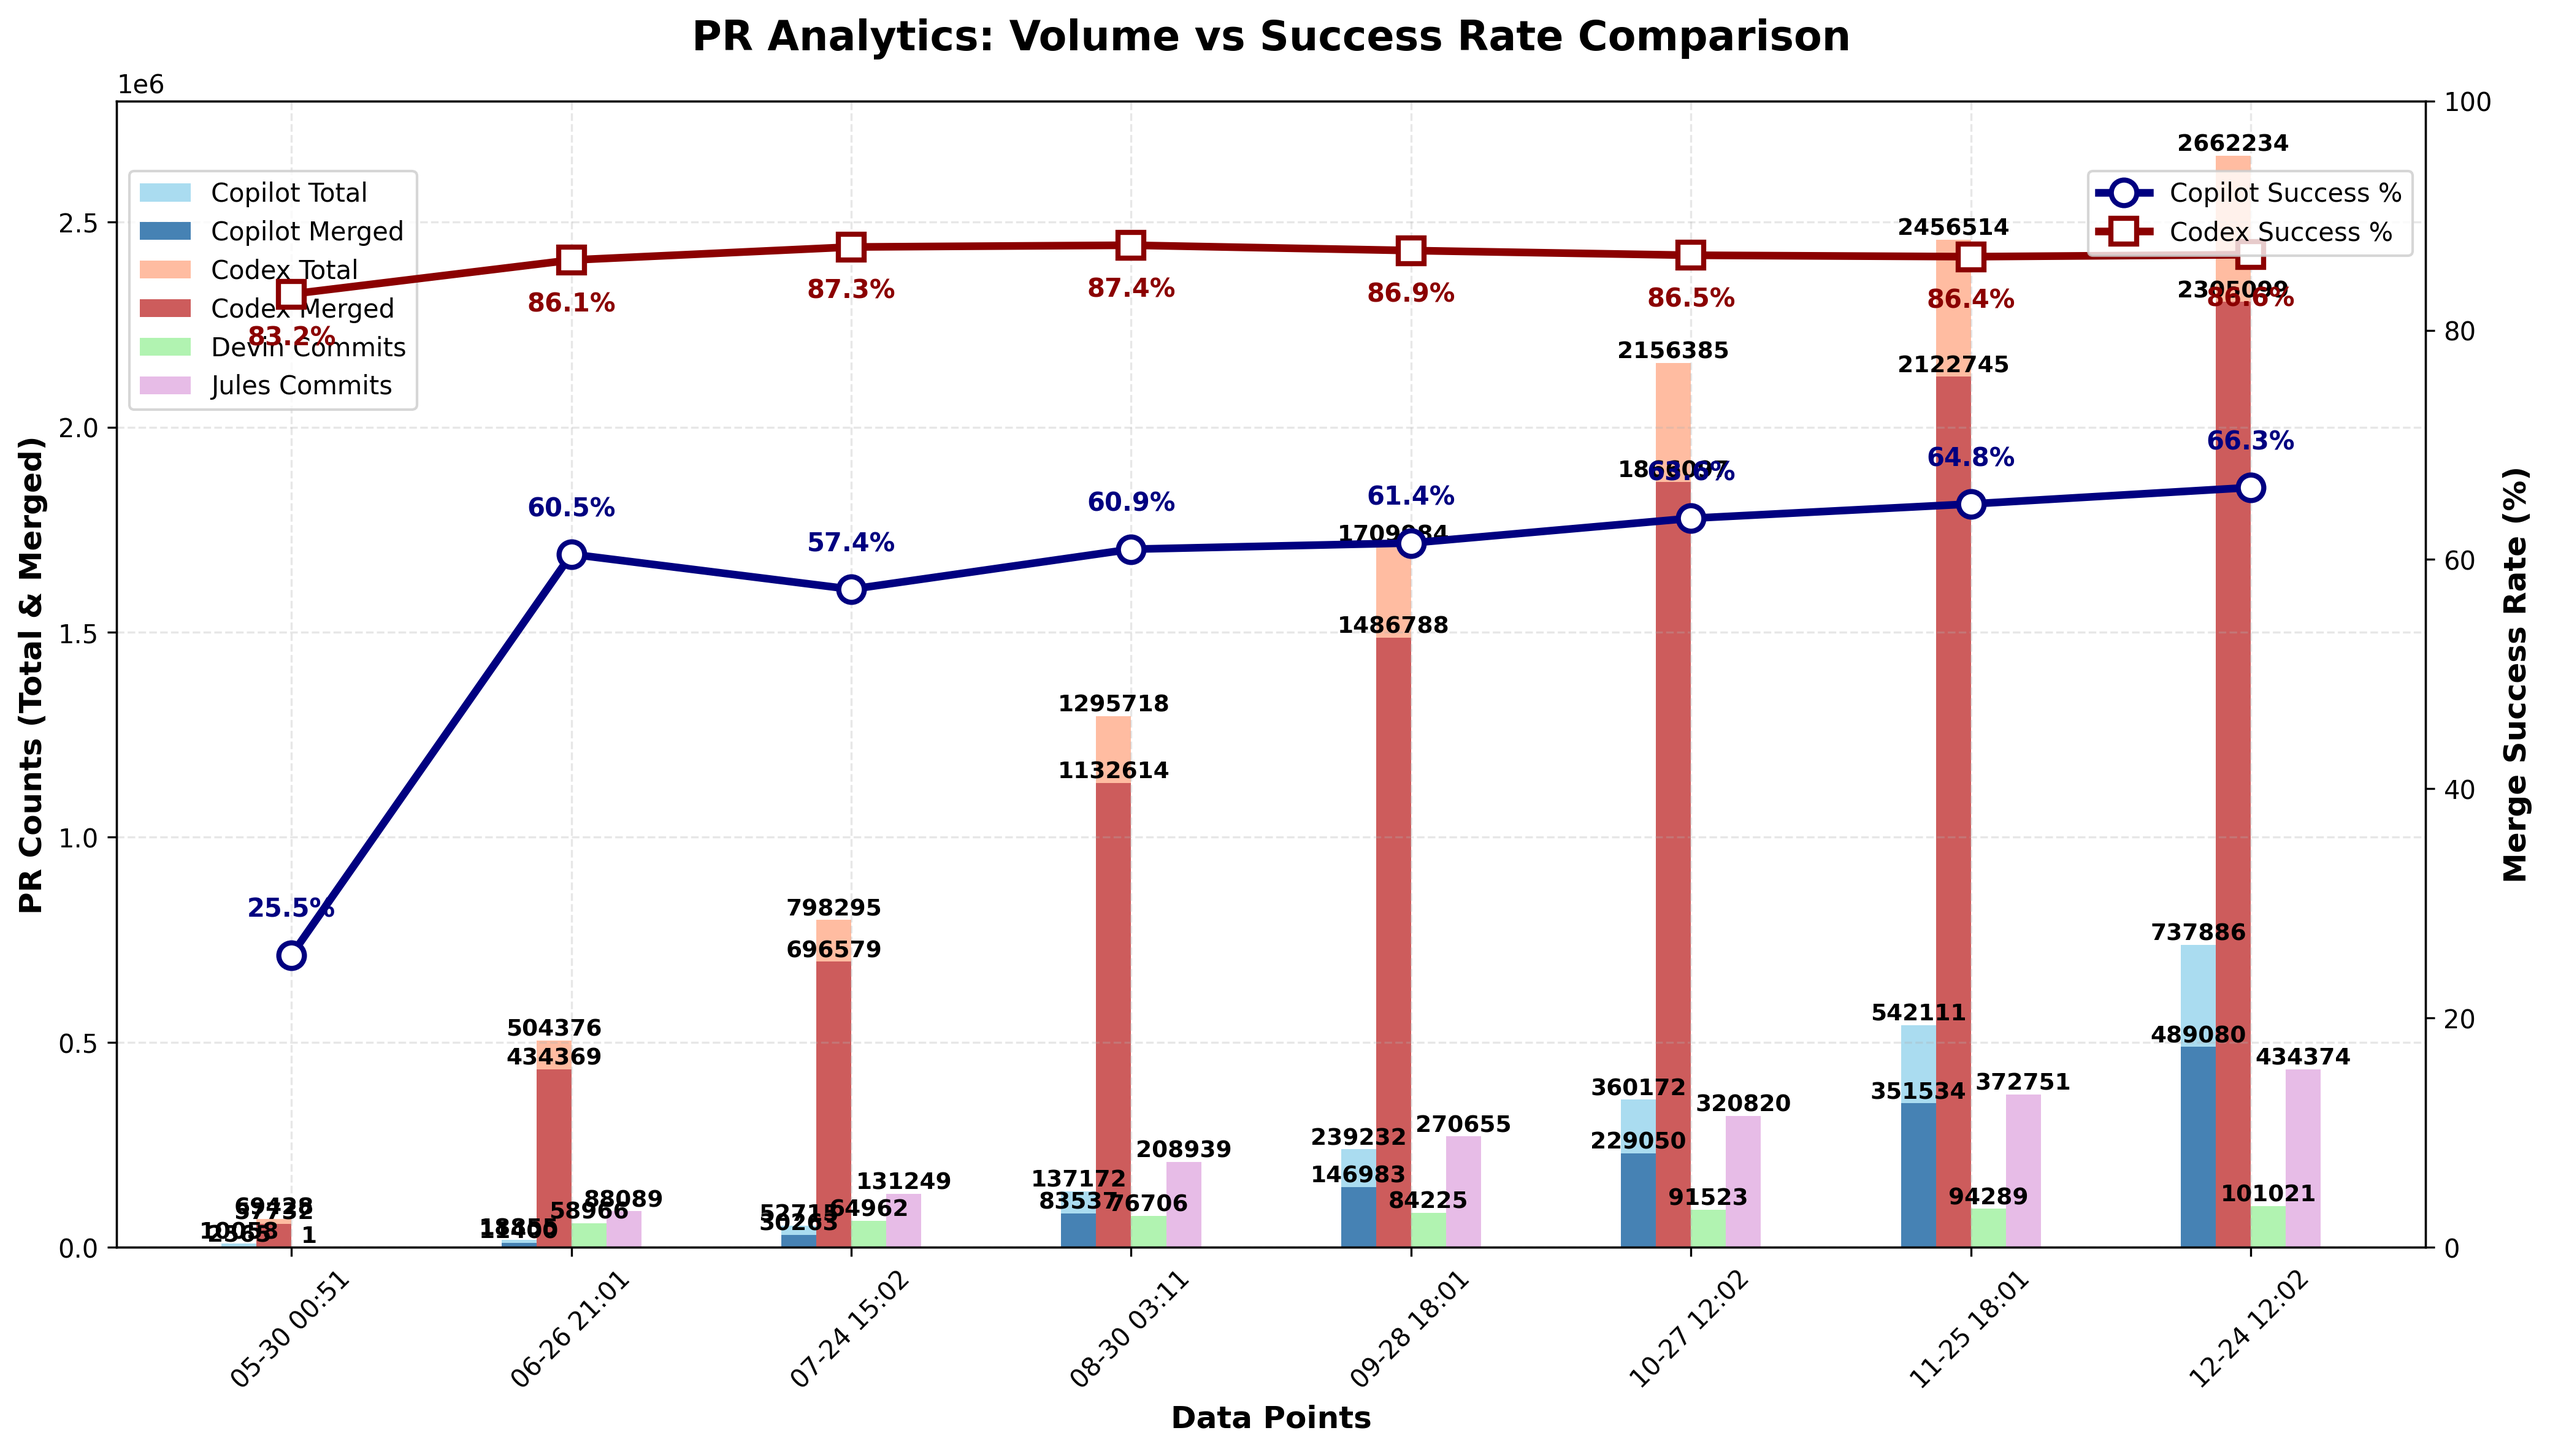
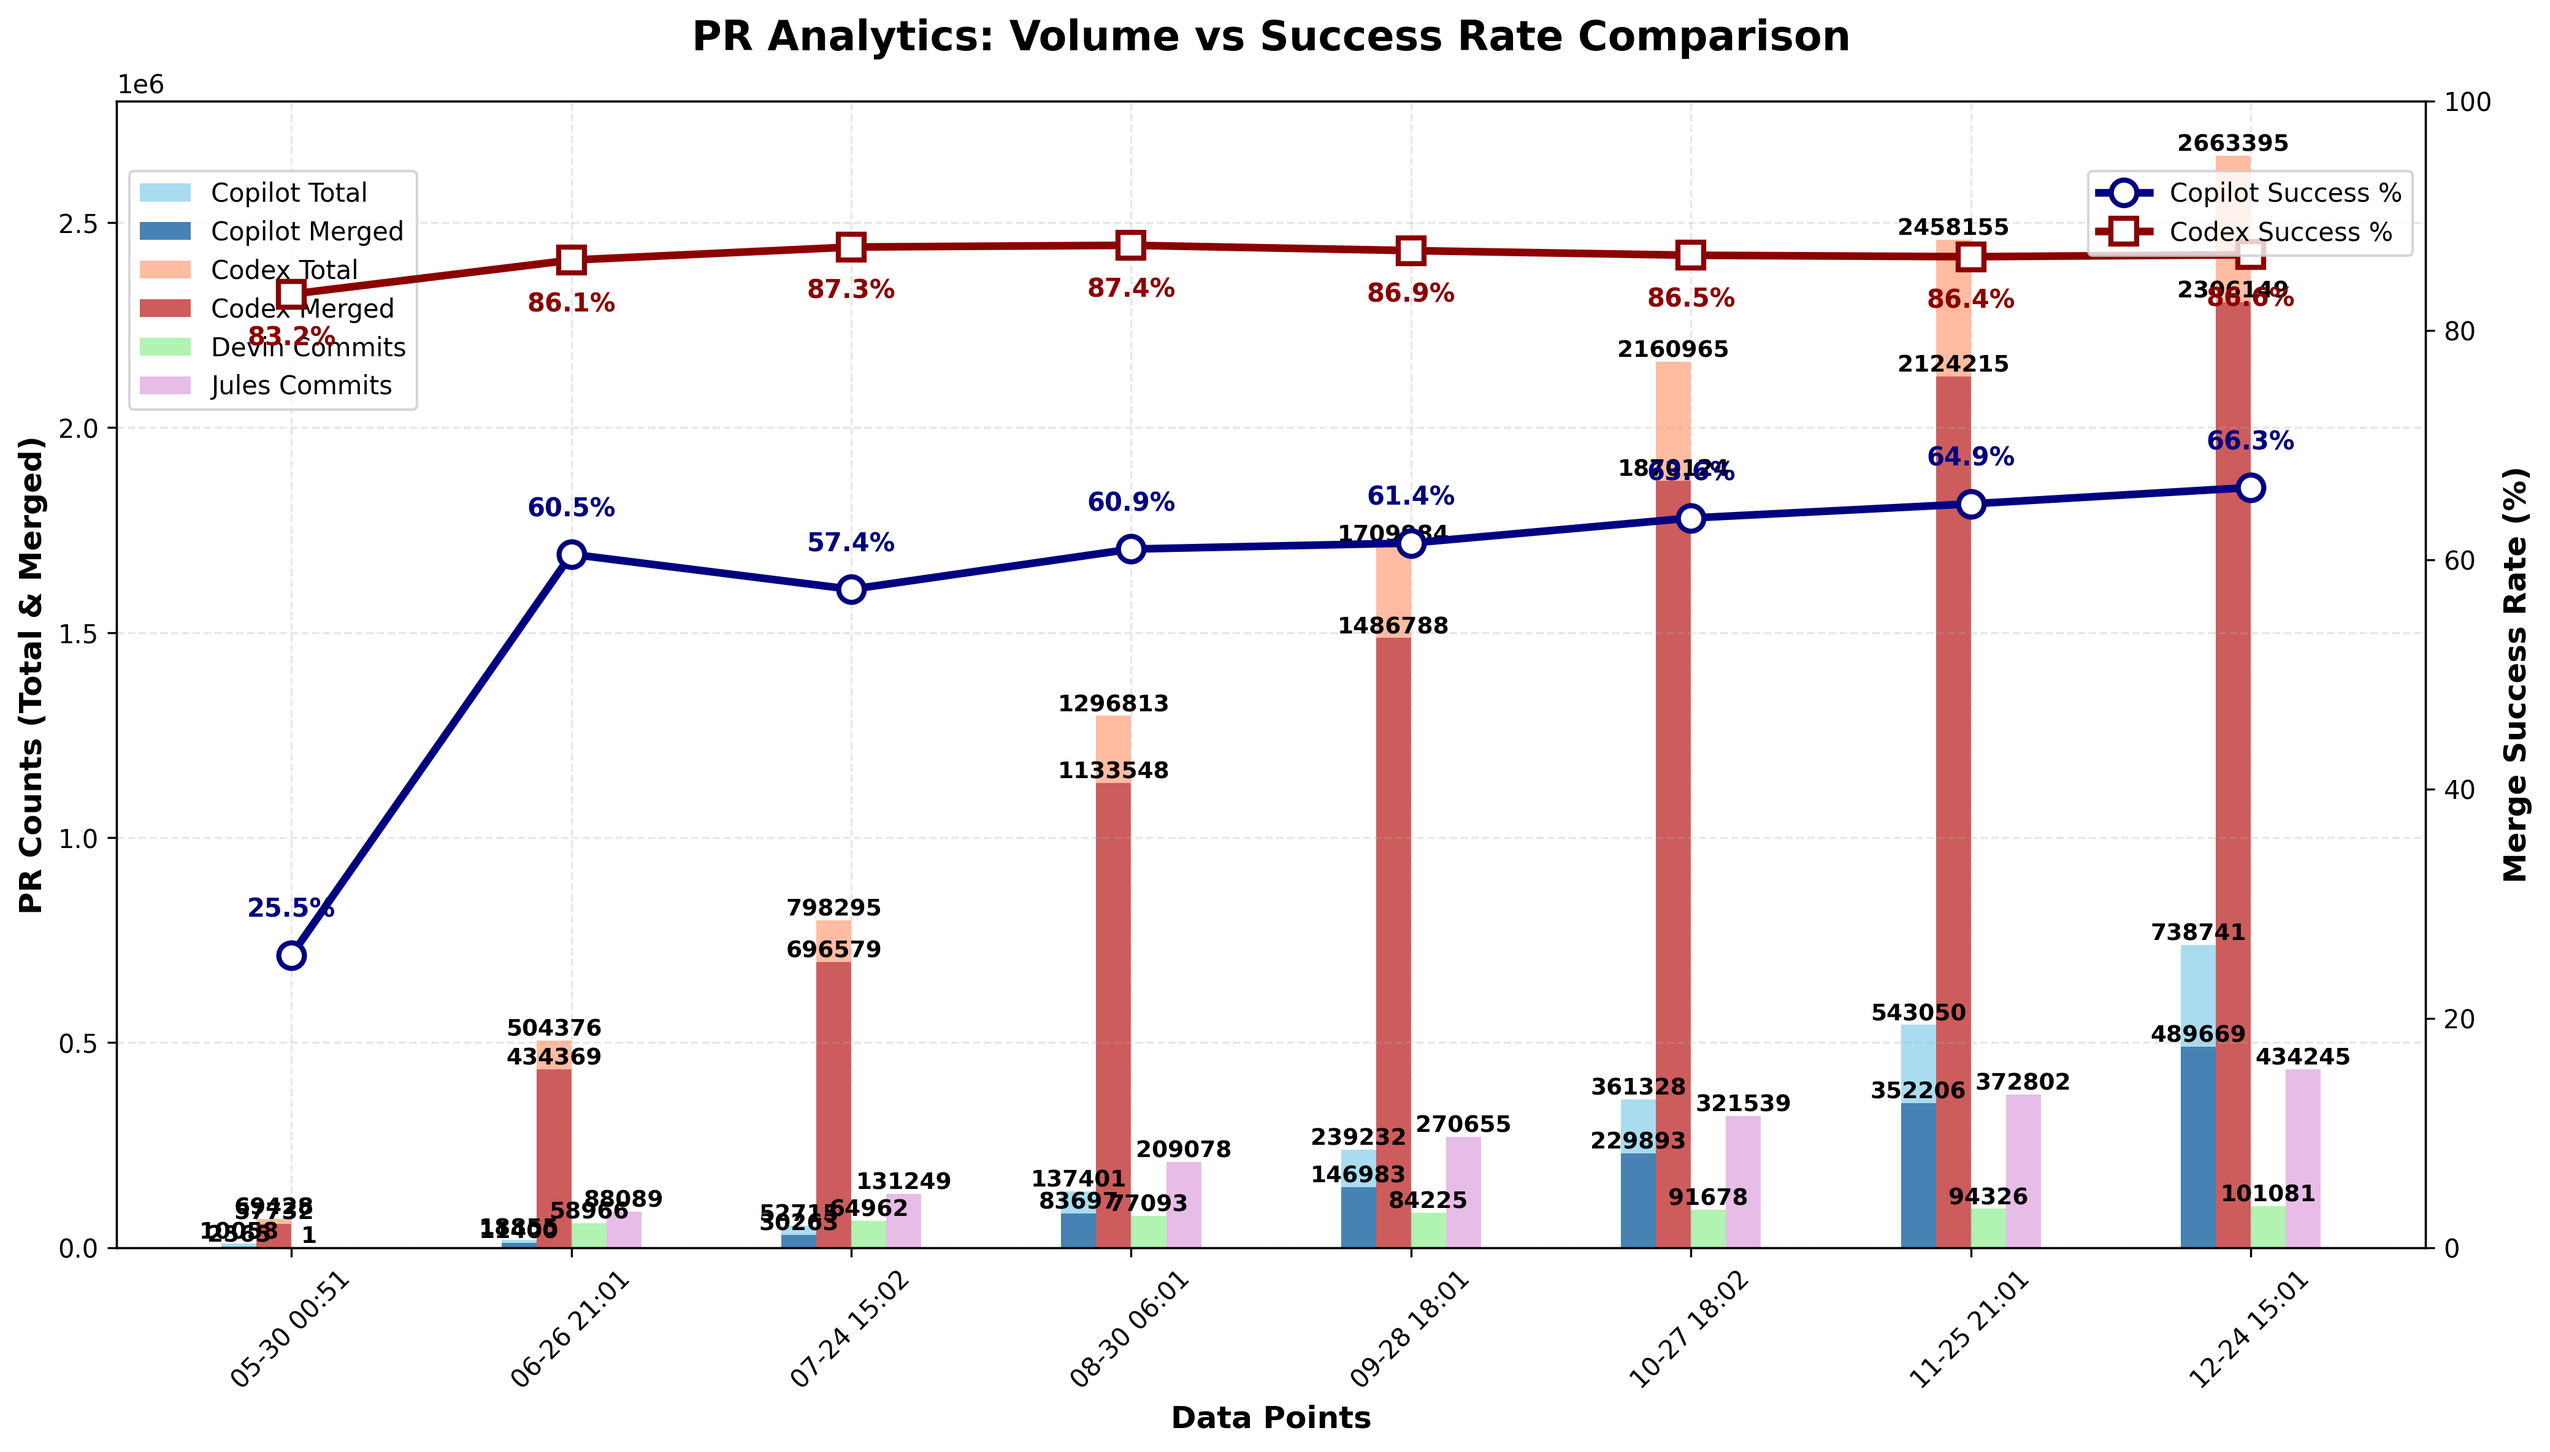
chore: update PR‑approval chart

diff --git a/docs/index.html b/docs/index.html
@@ -1604,6 +1604,7 @@
                         <td>N/A</td>
                         <td>N/A</td>
                         <td>N/A</td>
+                        <td>N/A</td>
                     </tr>
                     <tr>
                         <td>Codex</td>
@@ -3166,27 +3167,28 @@
                         <td>N/A</td>
                         <td>N/A</td>
                         <td>N/A</td>
+                        <td>N/A</td>
                     </tr>
                 <tr>
                         <td>Devin</td>
                         <td>N/A</td>
                         <td>N/A</td>
                         <td>N/A</td>
-                        <td>101,021</td>
+                        <td>101,081</td>
                     </tr>
                     <tr>
                         <td>Jules</td>
                         <td>N/A</td>
                         <td>N/A</td>
                         <td>N/A</td>
-                        <td>434,374</td>
+                        <td>434,245</td>
                     </tr>
                     </tbody>
             </table>
         </section>
 
         <footer>
-            <p>Last updated: <span id="last-updated">December 24, 2025 12:02 UTC</span></p>
+            <p>Last updated: <span id="last-updated">December 24, 2025 15:01 UTC</span></p>
             <p><a href="https://github.com/aavetis/ai-pr-watcher">View on GitHub</a></p>
         </footer>
     </div>

diff --git a/README.md b/README.md
@@ -19,7 +19,7 @@ Explore the GitHub search queries used:
 
 | Service | Total PRs | Merged PRs | Merge Rate | Total Commits |
 | ------- | --------- | ---------- | ---------- | ------------- |
-| Copilot | 737,886 | 489,080 | 66.28% | N/A           |
-| Codex   | 2,662,234 | 2,305,099 | 86.59% | N/A           |
-| Devin   | N/A       | N/A        | N/A        | 101,021 |
-| Jules   | N/A       | N/A        | N/A        | 434,374 |
+| Copilot | 738,741 | 489,669 | 66.28% | N/A           |
+| Codex   | 2,663,395 | 2,306,149 | 86.59% | N/A           |
+| Devin   | N/A       | N/A        | N/A        | 101,081 |
+| Jules   | N/A       | N/A        | N/A        | 434,245 |
